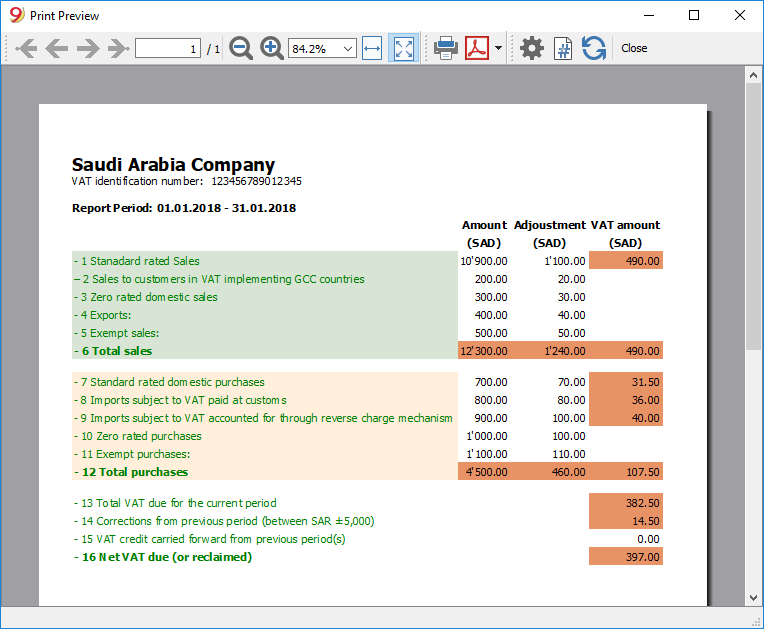
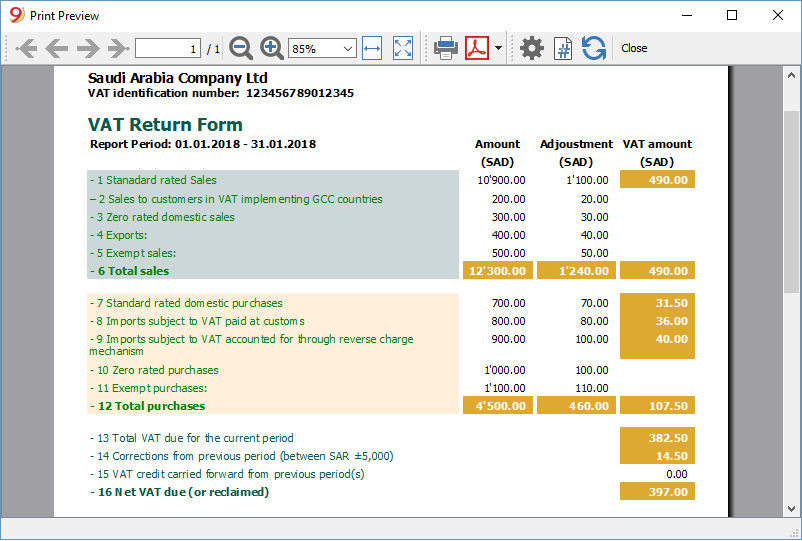
Updated Saudi Arabia script and images

diff --git a/SaudiArabia/vat2018/sa.vatreport.2018.js b/SaudiArabia/vat2018/sa.vatreport.2018.js
@@ -131,12 +131,15 @@ function createVatReport(param, banDoc, startDate, endDate) {
 	report.addParagraph(" ", "");
 	report.addParagraph(param.text.title, "heading1 textGreen");
 	
-
+	/* we create the table */
 	var table = report.addTable("tableI");
-	var col1 = table.addColumn("col1");
-	var col2 = table.addColumn("col2");
-	var col3 = table.addColumn("col3");
-	var col4 = table.addColumn("col4");
+	var col1 = table.addColumn("col1");  /* description */
+	var col2 = table.addColumn("col2");  /* space */
+	var col3 = table.addColumn("col3");  /* amount taxable */
+	var col4 = table.addColumn("col4");  /* space */
+	var col4 = table.addColumn("col5");  /* adjustment */
+	var col4 = table.addColumn("col6");  /* space */
+	var col4 = table.addColumn("col7");  /* vat amount */
 	/**********
 	I.
 	 **********/
@@ -155,23 +158,32 @@ function createVatReport(param, banDoc, startDate, endDate) {
 	/* Header  */
 	tableRow = table.addRow();
 	tableRow.addCell(param.text.period + Banana.Converter.toLocaleDateFormat(startDate) + " - " + Banana.Converter.toLocaleDateFormat(endDate), "bold");
+	tableRow.addCell();
 	tableRow.addCell(param.text.headerAmount, "bold center");
+	tableRow.addCell();
 	tableRow.addCell(param.text.headerAdjustments, "bold center");
+	tableRow.addCell();	
 	tableRow.addCell(param.text.headerVat, "bold center");
 	tableRow = table.addRow();
 	tableRow.addCell();
+	tableRow.addCell();
 	tableRow.addCell(param.text.headerCurrency, "bold center");
+	tableRow.addCell();
 	tableRow.addCell(param.text.headerCurrency, "bold center");
+	tableRow.addCell();
 	tableRow.addCell(param.text.headerCurrency, "bold center");
 
 	/* 1 - Standard rated sales */
 	tableRow = table.addRow();
 	tableRow.addCell(param.text.description1, "textDue");
+	tableRow.addCell();
 	taxable = getGr1VatBalance(banDoc, transactions, "1", 2, startDate, endDate);
 	tableRow.addCell(formatNumber(taxable), "right dataCell");
+	tableRow.addCell();
 	/* Adjustment is positive for deductions */
 	adjustment = getGr1VatBalance(banDoc, transactions, "1A", 1, startDate, endDate);
 	tableRow.addCell(formatNumber(adjustment), "right dataCell");
+	tableRow.addCell();
 	posted = getGr1VatBalance(banDoc, transactions, "1;1A", 4, startDate, endDate);
 	tableRow.addCell(formatNumber(posted), "right totalCell");
 
@@ -182,11 +194,14 @@ function createVatReport(param, banDoc, startDate, endDate) {
 	/* 2 - Sales to customers in VAT implementing GCC countries */
 	tableRow = table.addRow();
 	tableRow.addCell(param.text.description2, "textDue");
+	tableRow.addCell();
 	taxable = getGr1VatBalance(banDoc, transactions, "2", 2, startDate, endDate);
 	tableRow.addCell(formatNumber(taxable), "right dataCell");
+	tableRow.addCell();
 	/* Adjustment is positive for deductions */
 	adjustment = getGr1VatBalance(banDoc, transactions, "2A", 1, startDate, endDate);
 	tableRow.addCell(formatNumber(adjustment), "right dataCell");
+	tableRow.addCell();
 	posted = getGr1VatBalance(banDoc, transactions, "2;2A", 4, startDate, endDate);
 	if (Banana.SDecimal.isZero(posted)) {
 		tableRow.addCell(formatNumber(posted), "error right dataCell");
@@ -197,11 +212,14 @@ function createVatReport(param, banDoc, startDate, endDate) {
 	/* 3 - Zero rated domestic sales */
 	tableRow = table.addRow();
 	tableRow.addCell(param.text.description3, "textDue");
+	tableRow.addCell();
 	taxable = getGr1VatBalance(banDoc, transactions, "3", 2, startDate, endDate);
 	tableRow.addCell(formatNumber(taxable), "right dataCell");
+	tableRow.addCell();
 	/* Adjustment is positive for deductions */
 	adjustment = getGr1VatBalance(banDoc, transactions, "3A", 1, startDate, endDate);
 	tableRow.addCell(formatNumber(adjustment), "right dataCell");
+	tableRow.addCell();
 	posted = getGr1VatBalance(banDoc, transactions, "3;3A", 4, startDate, endDate);
 	if (Banana.SDecimal.isZero(posted)) {
 		tableRow.addCell(formatNumber(posted), "error right dataCell");
@@ -212,11 +230,14 @@ function createVatReport(param, banDoc, startDate, endDate) {
 	/* 4 - Exports */
 	tableRow = table.addRow();
 	tableRow.addCell(param.text.description4, "textDue");
+	tableRow.addCell();
 	taxable = getGr1VatBalance(banDoc, transactions, "4", 2, startDate, endDate);
 	tableRow.addCell(formatNumber(taxable), "right dataCell");
+	tableRow.addCell();
 	/* Adjustment is positive for deductions */
 	adjustment = getGr1VatBalance(banDoc, transactions, "4A", 1, startDate, endDate);
 	tableRow.addCell(formatNumber(adjustment), "right dataCell");
+	tableRow.addCell();
 	posted = getGr1VatBalance(banDoc, transactions, "4;4A", 4, startDate, endDate);
 	if (Banana.SDecimal.isZero(posted)) {
 		tableRow.addCell(formatNumber(posted), "error right dataCell");
@@ -227,11 +248,14 @@ function createVatReport(param, banDoc, startDate, endDate) {
 	/* 5 - Exempt sales: */
 	tableRow = table.addRow();
 	tableRow.addCell(param.text.description5, "textDue");
+	tableRow.addCell();
 	taxable = getGr1VatBalance(banDoc, transactions, "5", 2, startDate, endDate);
 	tableRow.addCell(formatNumber(taxable), "right dataCell");
+	tableRow.addCell();
 	/* Adjustment is positive for deductions */
 	adjustment = getGr1VatBalance(banDoc, transactions, "5A", 1, startDate, endDate);
 	tableRow.addCell(formatNumber(adjustment), "right dataCell");
+	tableRow.addCell();
 	posted = getGr1VatBalance(banDoc, transactions, "5;5A", 4, startDate, endDate);
 	if (Banana.SDecimal.isZero(posted)) {
 		tableRow.addCell(formatNumber(posted), "error right dataCell");
@@ -242,8 +266,11 @@ function createVatReport(param, banDoc, startDate, endDate) {
 	/* 6 - Total sales: */
 	tableRow = table.addRow();
 	tableRow.addCell(param.text.description6, "bold textDue");
+	tableRow.addCell();
 	tableRow.addCell(formatNumber(taxableTot, true), "right totalCell");
+	tableRow.addCell();
 	tableRow.addCell(formatNumber(adjustmentTot, true), "right totalCell");
+	tableRow.addCell();
 	tableRow.addCell(formatNumber(postedTotDue, true), "right totalCell");
 	tableRow = table.addRow().addCell("");
 
@@ -254,11 +281,14 @@ function createVatReport(param, banDoc, startDate, endDate) {
 	/* 7 - Standard rated domestic purchases */
 	tableRow = table.addRow();
 	tableRow.addCell(param.text.description7, "textRecoverable");
+	tableRow.addCell();
 	taxable = getGr1VatBalance(banDoc, transactions, "7", 1, startDate, endDate);
 	tableRow.addCell(formatNumber(taxable, true), "right dataCell");
+	tableRow.addCell();
 	/* Adjustment is positive for deductions */
 	adjustment = getGr1VatBalance(banDoc, transactions, "7A", 2, startDate, endDate);
 	tableRow.addCell(formatNumber(adjustment, true), "right dataCell");
+	tableRow.addCell();
 	posted = getGr1VatBalance(banDoc, transactions, "7;7A", 3, startDate, endDate);
 	tableRow.addCell(formatNumber(posted, true), "right totalCell");
 
@@ -269,11 +299,14 @@ function createVatReport(param, banDoc, startDate, endDate) {
 	/* 8 - Imports subject to VAT paid at customs */
 	tableRow = table.addRow();
 	tableRow.addCell(param.text.description8, "textRecoverable");
+	tableRow.addCell();
 	taxable = getGr1VatBalance(banDoc, transactions, "8", 1, startDate, endDate);
 	tableRow.addCell(formatNumber(taxable, true), "right dataCell");
+	tableRow.addCell();
 	/* Adjustment is positive for deductions */
 	adjustment = getGr1VatBalance(banDoc, transactions, "8A", 2, startDate, endDate);
 	tableRow.addCell(formatNumber(adjustment, true), "right dataCell");
+	tableRow.addCell();
 	posted = getGr1VatBalance(banDoc, transactions, "8;8A", 3, startDate, endDate);
 	tableRow.addCell(formatNumber(posted, true), "right totalCell");
 
@@ -284,11 +317,14 @@ function createVatReport(param, banDoc, startDate, endDate) {
 	/* 9 - Imports subject to VAT accounted for through reverse charge mechanism */
 	tableRow = table.addRow();
 	tableRow.addCell(param.text.description9, "textRecoverable");
+	tableRow.addCell();
 	taxable = getGr1VatBalance(banDoc, transactions, "9", 1, startDate, endDate);
 	tableRow.addCell(formatNumber(taxable, true), "right dataCell");
+	tableRow.addCell();
 	/* Adjustment is positive for deductions */
 	adjustment = getGr1VatBalance(banDoc, transactions, "9A", 2, startDate, endDate);
 	tableRow.addCell(formatNumber(adjustment, true), "right dataCell");
+	tableRow.addCell();
 	posted = getGr1VatBalance(banDoc, transactions, "9;9A", 3, startDate, endDate);
 	tableRow.addCell(formatNumber(posted, true), "right totalCell");
 
@@ -299,11 +335,14 @@ function createVatReport(param, banDoc, startDate, endDate) {
 	/* 10 - Zero rated purchases */
 	tableRow = table.addRow();
 	tableRow.addCell(param.text.description10, "textRecoverable");
+	tableRow.addCell();
 	taxable = getGr1VatBalance(banDoc, transactions, "10", 1, startDate, endDate);
 	tableRow.addCell(formatNumber(taxable), "right dataCell");
+	tableRow.addCell();
 	/* Adjustment is positive for deductions */
 	adjustment = getGr1VatBalance(banDoc, transactions, "10A", 2, startDate, endDate);
 	tableRow.addCell(formatNumber(adjustment), "right dataCell");
+	tableRow.addCell();
 	posted = getGr1VatBalance(banDoc, transactions, "19;10A", 3, startDate, endDate);
 	if (Banana.SDecimal.isZero(posted)) {
 		tableRow.addCell(formatNumber(posted), "error right dataCell");
@@ -314,11 +353,14 @@ function createVatReport(param, banDoc, startDate, endDate) {
 	/* 11 - Exempt purchases */
 	tableRow = table.addRow();
 	tableRow.addCell(param.text.description11, "textRecoverable");
+	tableRow.addCell();
 	taxable = getGr1VatBalance(banDoc, transactions, "11", 1, startDate, endDate);
 	tableRow.addCell(formatNumber(taxable), "right dataCell");
+	tableRow.addCell();
 	/* Adjustment is positive for deductions */
 	adjustment = getGr1VatBalance(banDoc, transactions, "11A", 2, startDate, endDate);
 	tableRow.addCell(formatNumber(adjustment), "right dataCell");
+	tableRow.addCell();
 	posted = getGr1VatBalance(banDoc, transactions, "11;11A", 3, startDate, endDate);
 	if (Banana.SDecimal.isZero(posted)) {
 		tableRow.addCell(formatNumber(posted), "error right dataCell");
@@ -329,15 +371,23 @@ function createVatReport(param, banDoc, startDate, endDate) {
 	/* 12 - Total pruchases */
 	tableRow = table.addRow();
 	tableRow.addCell(param.text.description12, "bold textRecoverable");
+	tableRow.addCell();
 	tableRow.addCell(formatNumber(taxableTot, true), "right totalCell");
+	tableRow.addCell();
 	tableRow.addCell(formatNumber(adjustmentTot, true), "right totalCell");
+	tableRow.addCell();
 	tableRow.addCell(formatNumber(postedTotRecoverable, true), "right totalCell");
+	
+	/* space row */
 	tableRow = table.addRow().addCell("");
 
 	/* 13 - Total due current period */
 	dueCurrentPeriod = Banana.SDecimal.subtract(postedTotDue, postedTotRecoverable);
 	tableRow = table.addRow();
 	tableRow.addCell(param.text.description13, "textGreen");
+	tableRow.addCell();
+	tableRow.addCell();
+	tableRow.addCell();
 	tableRow.addCell();
 	tableRow.addCell();
 	if (Banana.SDecimal.abs(dueCurrentPeriod) > 5000) {
@@ -351,12 +401,18 @@ function createVatReport(param, banDoc, startDate, endDate) {
 	tableRow.addCell(param.text.description14, "textGreen");
 	tableRow.addCell();
 	tableRow.addCell();
+	tableRow.addCell();
+	tableRow.addCell();
+	tableRow.addCell();
 	tableRow.addCell(formatNumber(correctionsPreviousPeriod, true), "right totalCell");
 
 	/* 15 - VAT credit carried forward from previous period(s) */
 	//carryForwardPreviousPeriod = Banana.SDecimal.subtract(postedTotDue, postedTotRecoverable);
 	tableRow = table.addRow();
 	tableRow.addCell(param.text.description15, "textGreen");
+	tableRow.addCell();
+	tableRow.addCell();
+	tableRow.addCell();
 	tableRow.addCell();
 	tableRow.addCell();
 	tableRow.addCell(formatNumber(carryForwardPreviousPeriod, true), "right dataCell");
@@ -366,6 +422,9 @@ function createVatReport(param, banDoc, startDate, endDate) {
 	netDueOrClaim = Banana.SDecimal.add(netDueOrClaim, carryForwardPreviousPeriod);
 	tableRow = table.addRow();
 	tableRow.addCell(param.text.description16, "bold textGreen");
+	tableRow.addCell();
+	tableRow.addCell();
+	tableRow.addCell();
 	tableRow.addCell();
 	tableRow.addCell();
 	tableRow.addCell(formatNumber(netDueOrClaim, true), "right totalCell");
@@ -760,8 +819,8 @@ function createStyleSheet() {
 	stylesheet.addStyle(".borderBottom", "border-bottom:thin solid orange");
 	stylesheet.addStyle(".textDue", "color:green; background-color:#cbd7d8");
 	stylesheet.addStyle(".textRecoverable", "color:green; background-color:#FFEFDB");
-	stylesheet.addStyle(".dataCell", "");
-	stylesheet.addStyle(".totalCell", "font-weight:bold; color:white; background-color:#dda930; padding-left:1px ;padding-right:1px; border-width:2px; border-bottom-color:white");
+	stylesheet.addStyle(".dataCell", "padding-left:0.5em ;padding-right:0.5em;");
+	stylesheet.addStyle(".totalCell", "font-weight:bold; color:white; background-color:#dda930; padding-left:0.5em ;padding-right:0.5em;");
 	stylesheet.addStyle(".textGreen", "color:#0a5a4a;");
 	stylesheet.addStyle(".orange", "color:orange;");
 	stylesheet.addStyle(".red", "color:red;");
